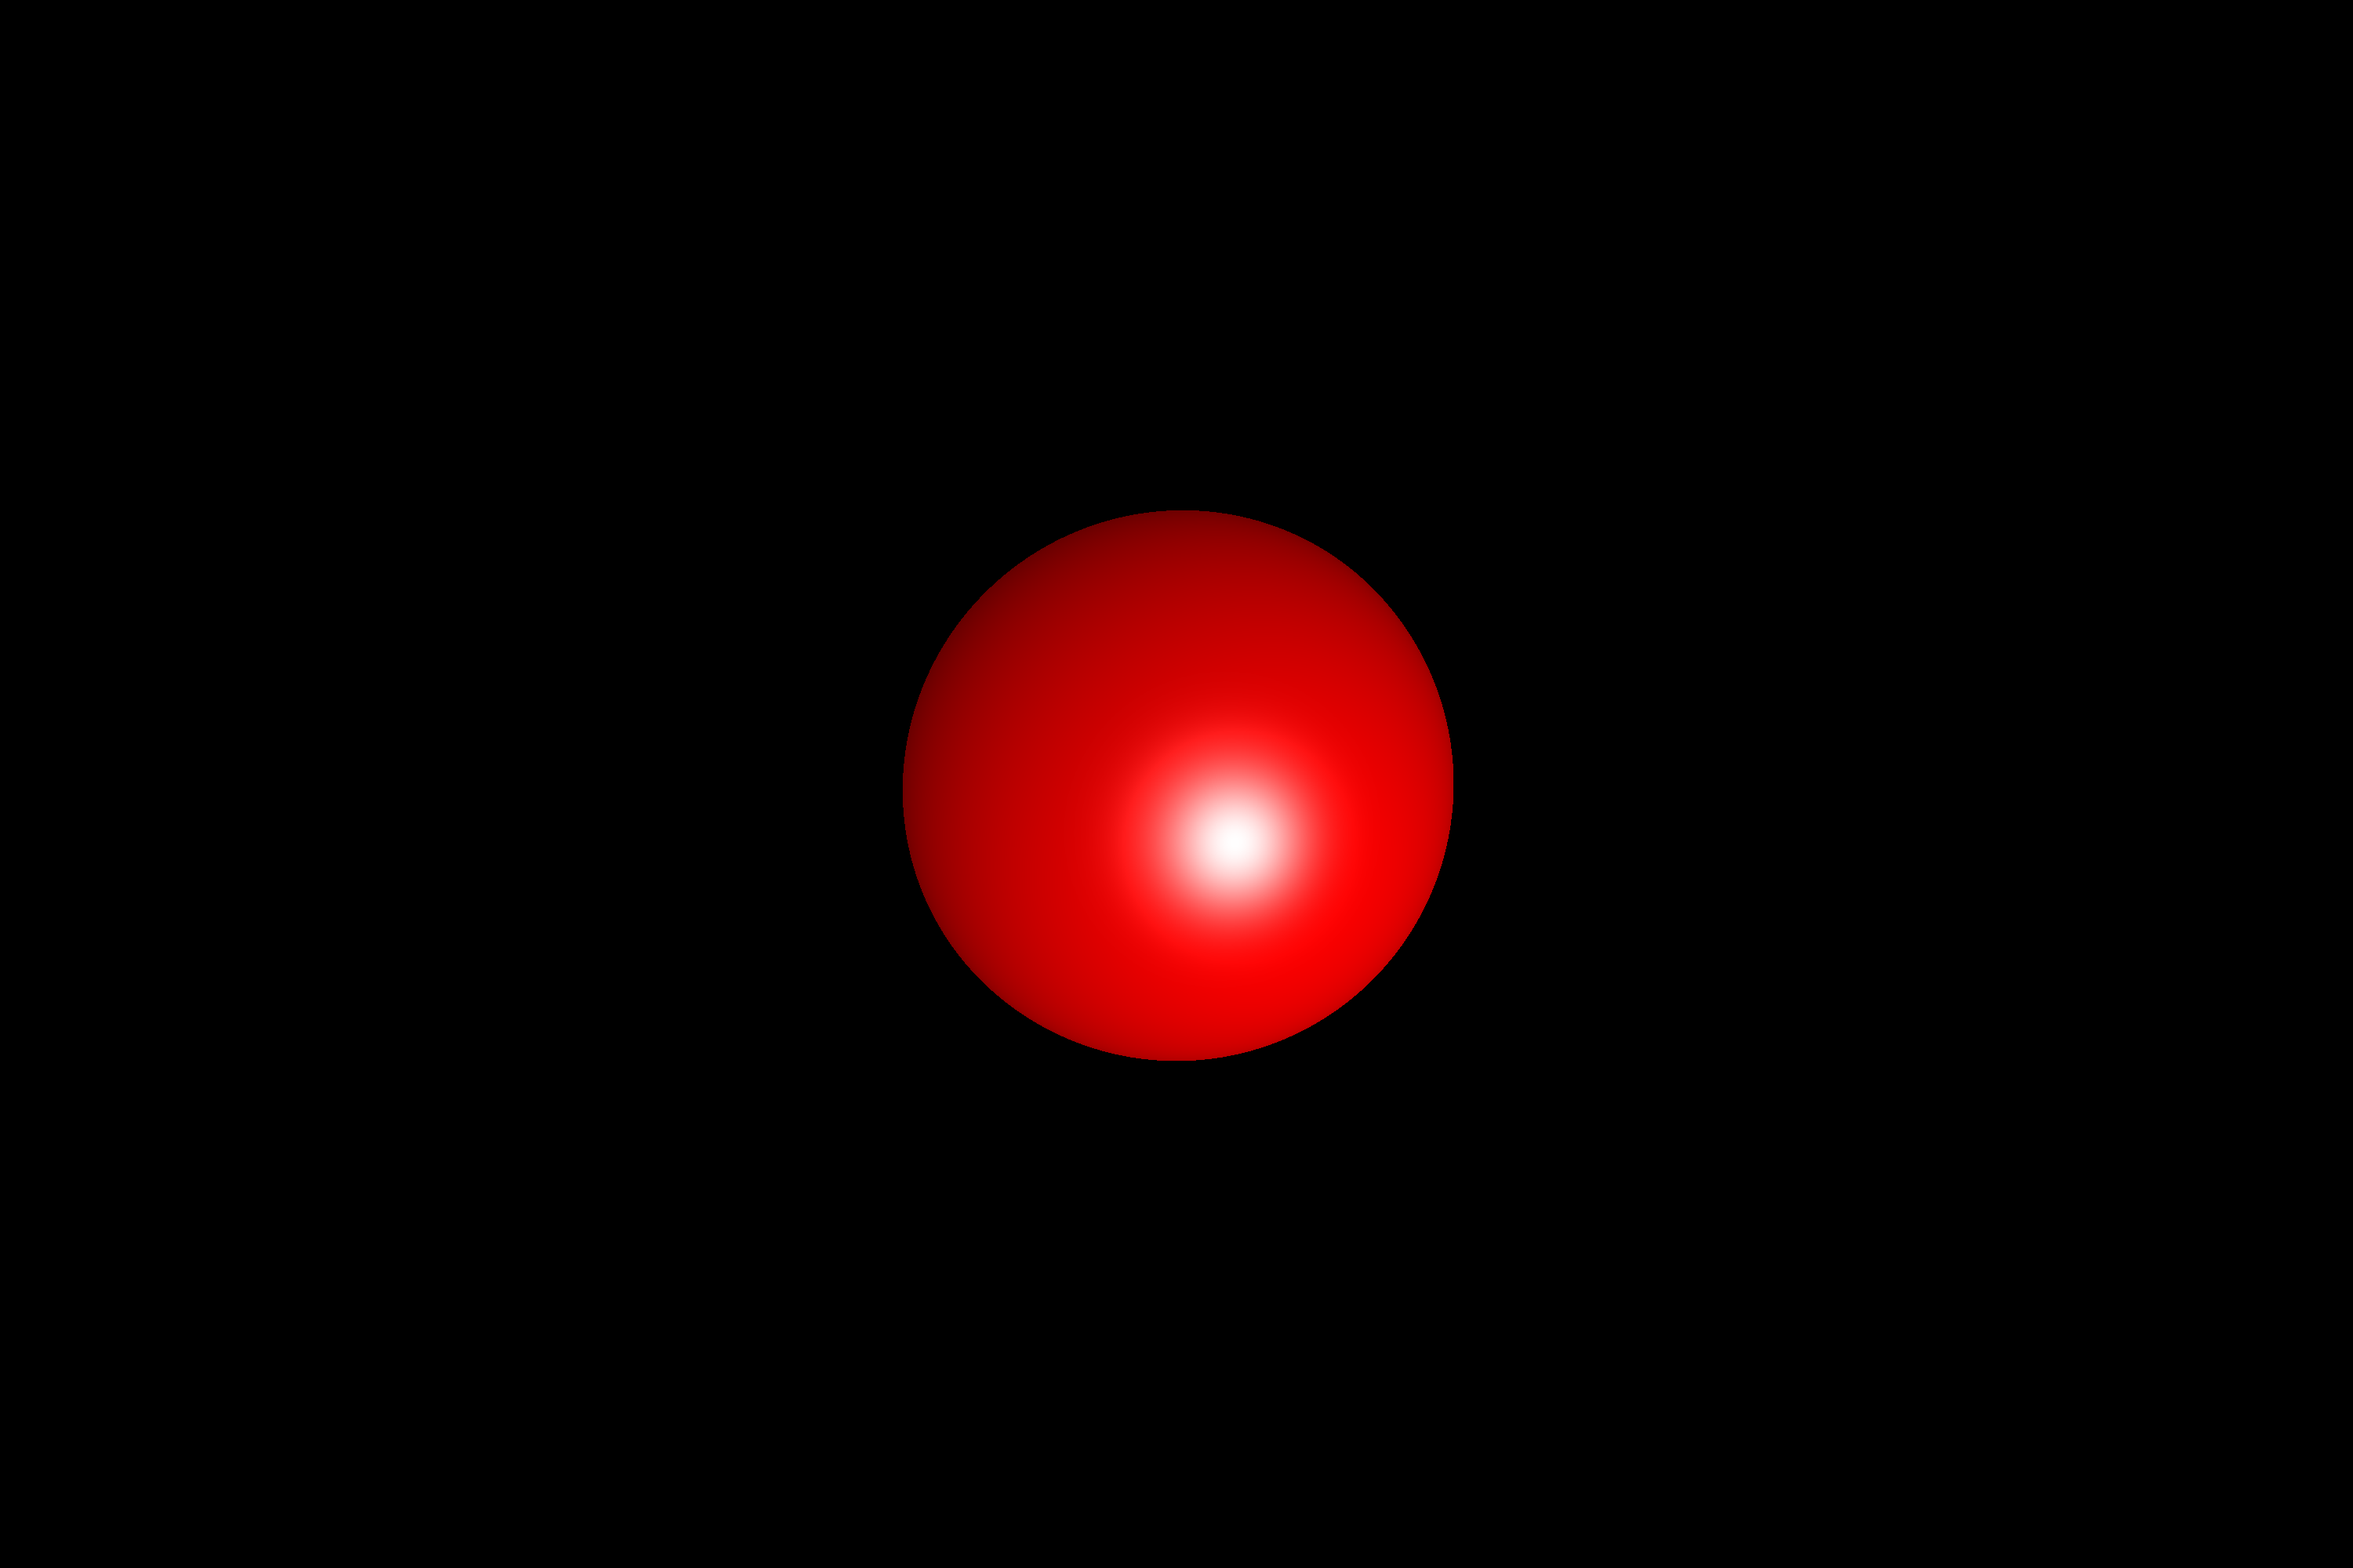
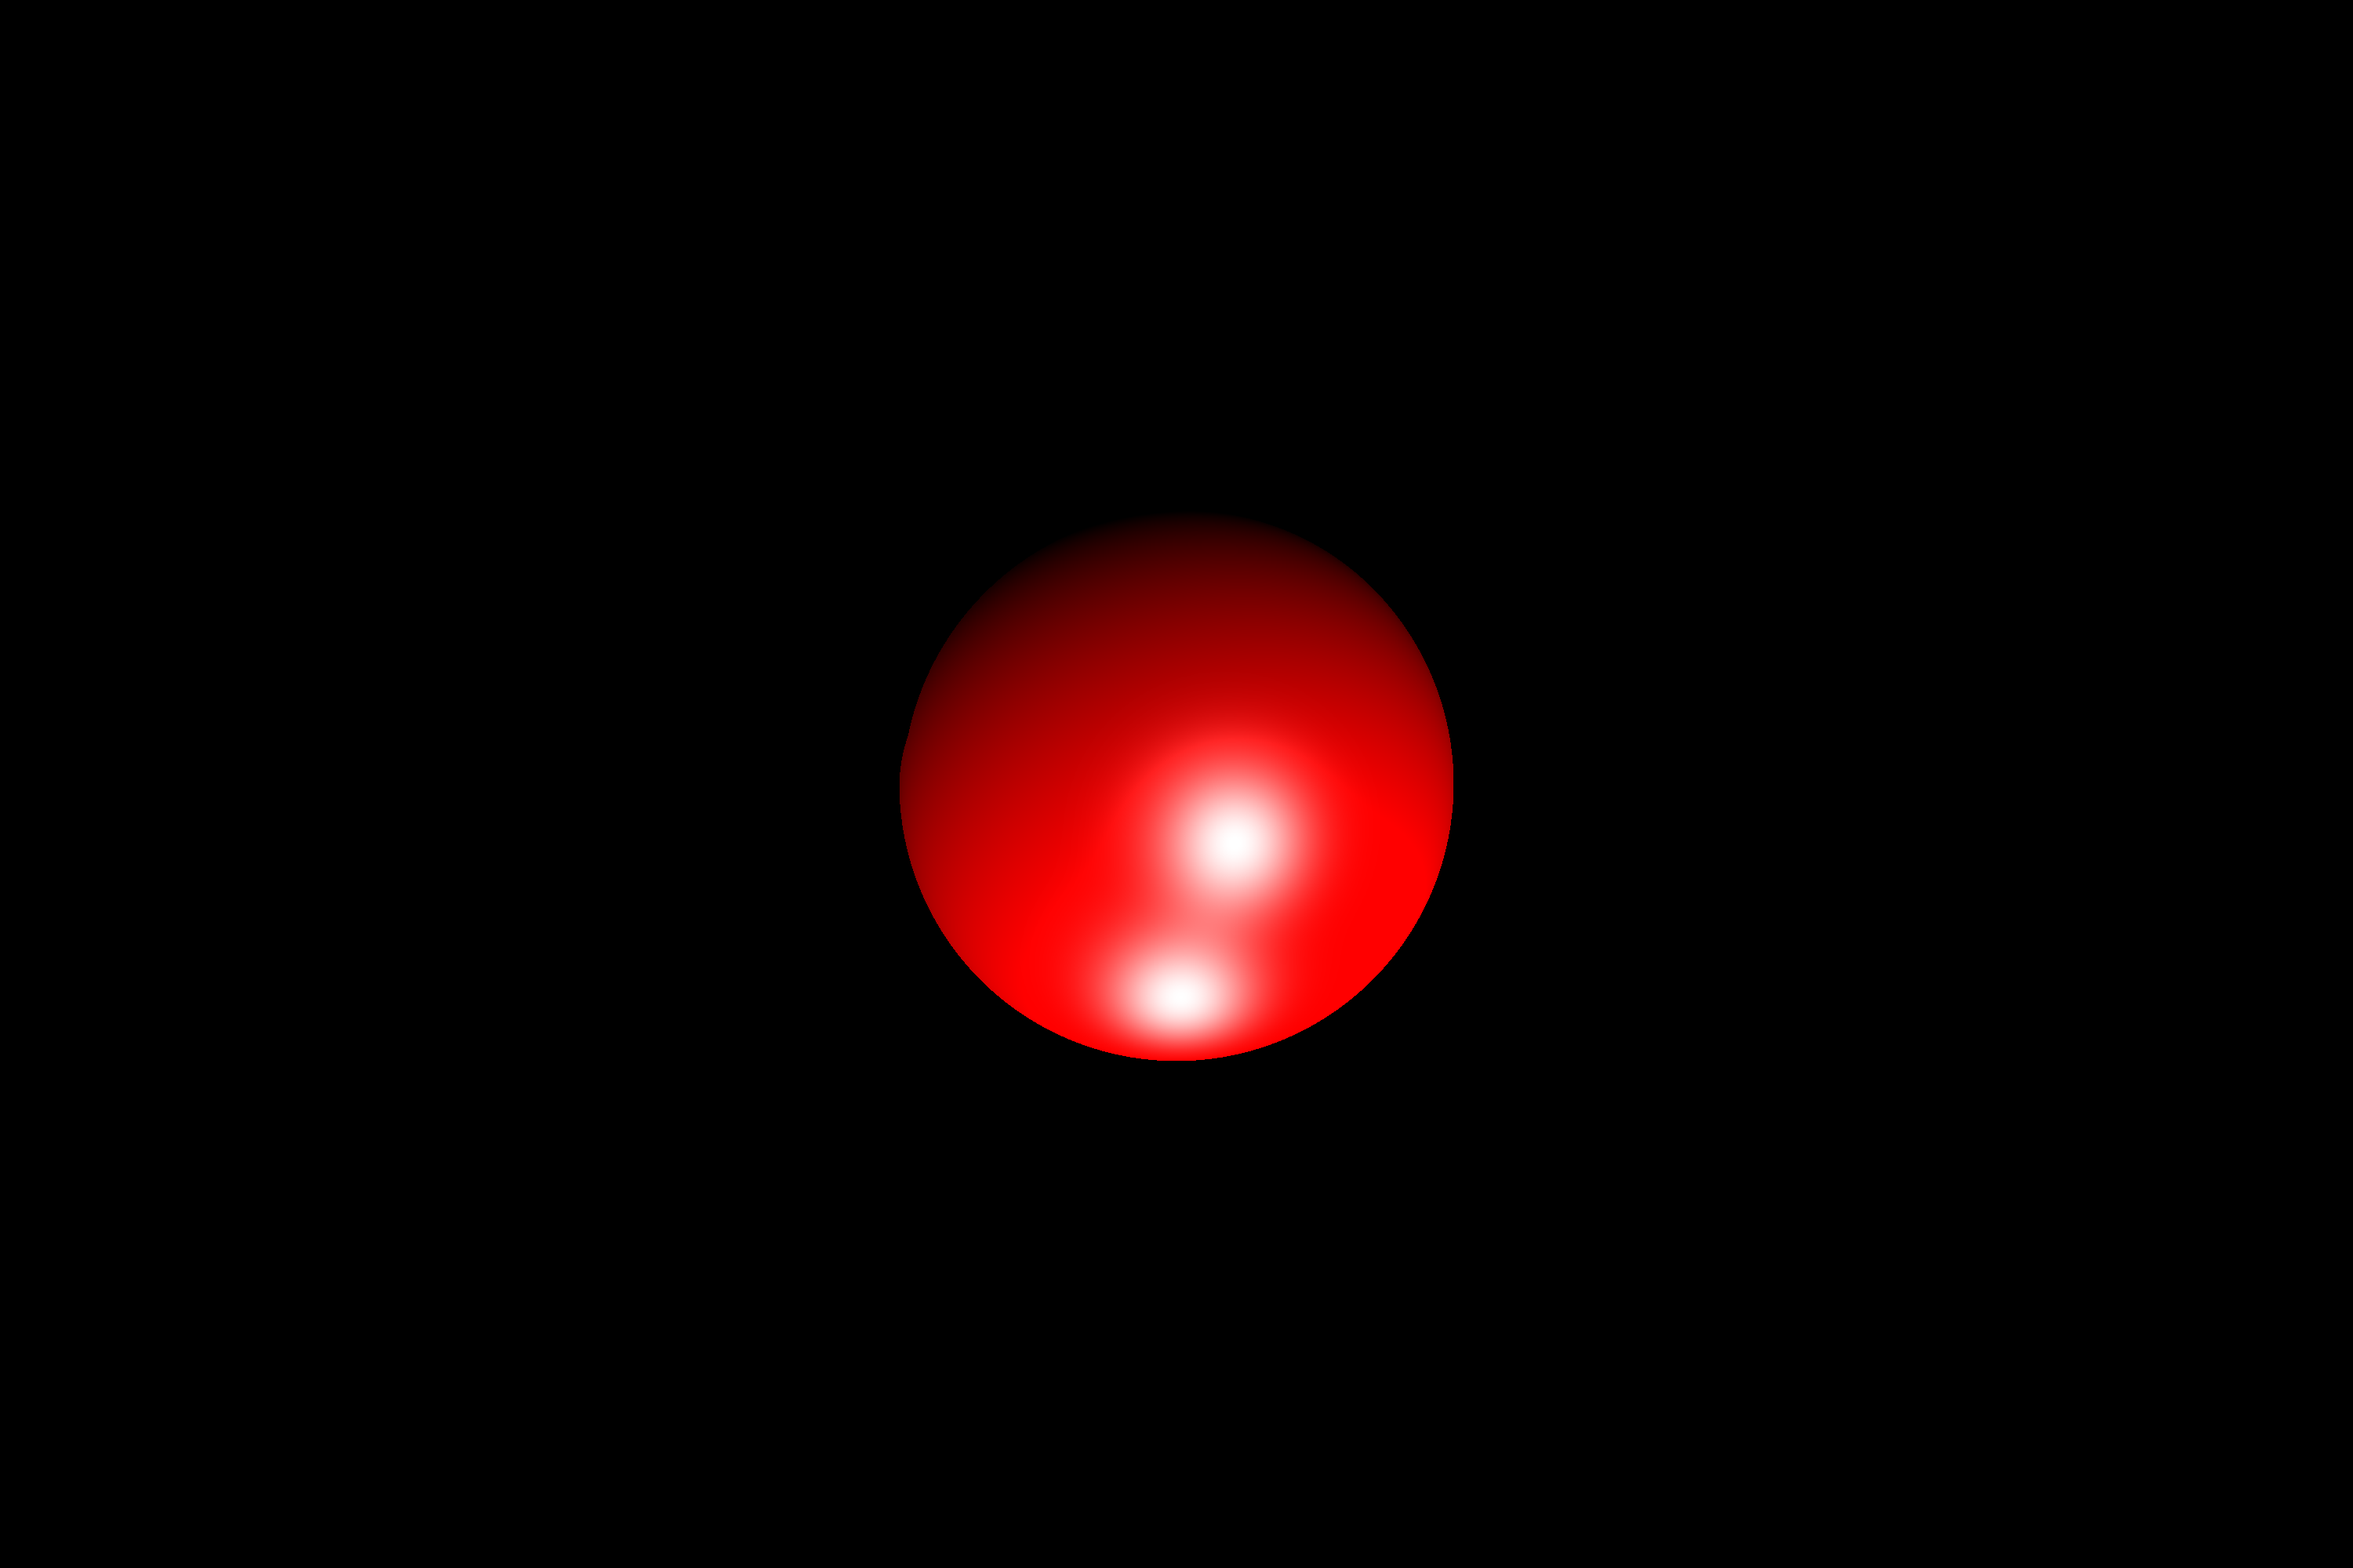
Before shaping rays

Changed region(s): [[0.372, 0.31, 0.62, 0.465], [0.372, 0.527, 0.62, 0.682]]

diff --git a/main.py b/main.py
@@ -1,38 +1,43 @@
-import numpy as np
-import matplotlib.pyplot as plt
+from imports import *
 from rays import *
 from material import *
 from sphere import *
+from viewer import *
+from time import time
+from scene import *
 
-width = 3000
-height = 2000
+last_update_time = time()
+scene = Scene()
+def update(events):
+    global last_update_time
+    global scene
+    print("FPS: ", 1/(time() - last_update_time))
+    last_update_time = time()
+    print(events)
+    width = 600
+    height = 600
 
-camera = np.array([0, 0, 1])
-camera_direction = np.array([0, 0, -1])
+    ratio = float(width) / height
+    camera = np.array([0, 0, 1])
 
-ratio = float(width) / height
+    x = np.linspace(-ratio, ratio, width)
+    y = np.linspace(-1, 1, height)
+    z = np.zeros((1))
+    screen = np.dstack(np.meshgrid(x,y,z)) # height, width, 3
+    screen = np.swapaxes(screen, 0, 1) # width, height, 3
+    screen = screen.reshape(width*height, 3) # width * height, 3
 
-x = np.linspace(-ratio, ratio, width)
-y = np.linspace(-1, 1, height)
-z = np.zeros((1))
-screen = np.dstack(np.meshgrid(x,y,z, copy=False)) # height, width, 3
-screen = np.swapaxes(screen, 0, 1) # width, height, 3
-screen = screen.reshape(width*height, 3) # width * height, 3
+    camera_pos = np.tile(camera, (width * height, 1)) # width * height, 3
 
-camera_pos = np.tile(camera, (width * height, 1)) # width * height, 3
+    rays = Rays.from_point_pairs(froms=camera_pos, tos=screen) # width*height, 3, 3
+    # rays = Rays(np.array([[0, 0, 1]]), np.array([[0, 0, -1]])) # width*height, 3, 3
 
-rays = Rays.from_point_pairs(froms=camera_pos, tos=screen) # width*height, 3, 3
-# rays = Rays(np.array([[0, 0, 1]]), np.array([[0, 0, -1]])) # width*height, 3, 3
+    result = scene.render_rays(rays)
+    mask = result[:, :, 2] > 0
+    image = np.zeros((width, height, 3))
+    image[mask] = result[mask]
 
-material = BasicMaterial(ambient_color=np.array([0.5, 0, 0]), diffuse_color=np.array([0.5, 0, 0]), specular_color=np.array([1,1,1]), shininess=25)
-sphere = Sphere(center=np.array([0, 0, -2]), radius=1, material=material)
+    return image*255
 
-result = sphere.render(rays, np.array([1,1,1])) # width*height, 3
-result = result.reshape(width, height, 3) # width, height, 3
-
-mask = result[:, :, 2] > 0
-image = np.zeros((width, height, 3))
-image[mask] = result[mask]
-
-image = np.swapaxes(image, 0, 1)
-plt.imsave('image.png', image)
+viewer = Viewer(update, (600, 600))
+viewer.start()

diff --git a/sphere.py b/sphere.py
@@ -1,13 +1,14 @@
-import numpy as np
-from utils import *
-from blinn_phong import *
+from imports import *
 
-class Sphere:
+from utils import *
+from primitive import *
+
+class Sphere(Primitive):
     def __init__(self, center, radius, material):
+        super().__init__(material)
         self.center = center
         self.radius = radius
         self.radius_sq = radius ** 2
-        self.material = material
 
     def normal_at(self, points):
         """
@@ -37,19 +38,4 @@ class Sphere:
         result_t[roots_minus_t >= 0] = roots_minus_t[roots_minus_t >= 0]
 
         result = rays.evaluate_at_t(result_t)
-        return result
-
-    def render(self, rays, light):
-        intersections = self.intersect(rays)
-        mask = ~np.isnan(intersections[:, 0])
-
-        to_observer = rays.origins[mask] - intersections[mask]
-        to_observer /= np.linalg.norm(to_observer, axis=1, keepdims=True)
-
-        to_light = light - intersections[mask]
-        to_light /= np.linalg.norm(to_light, axis=1, keepdims=True)
-
-        result = np.full_like(intersections, np.nan)
-        result[mask] = blinn_phong(self.material, intersections[mask], self.normal_at(intersections[mask]), to_light, to_observer)
-
         return result

diff --git a/primitive.py b/primitive.py
@@ -1,0 +1,31 @@
+from imports import *
+from blinn_phong import *
+
+class Primitive:
+
+    def __init__(self, material):
+        self.material = material
+
+    def normal_at(self, points):
+        raise NotImplementedError()
+
+    def intersect(self, rays):
+        raise NotImplementedError()
+
+    def render(self, rays, lights):
+        intersections = self.intersect(rays)
+        mask = ~np.isnan(intersections[:, 0])
+
+        to_observer = rays.origins[mask] - intersections[mask]
+        to_observer /= np.linalg.norm(to_observer, axis=1, keepdims=True)
+
+        result = np.full_like(intersections, np.nan)
+        result[mask] = self.material.ambient_colors_at(intersections[mask])
+
+        for light in lights:
+            to_light = light - intersections[mask]
+            to_light /= np.linalg.norm(to_light, axis=1, keepdims=True)
+
+            result[mask] += blinn_phong(self.material, intersections[mask], self.normal_at(intersections[mask]), to_light, to_observer)
+
+        return np.clip(result, 0, 1)

diff --git a/viewer.py b/viewer.py
@@ -1,0 +1,32 @@
+# viewer.py
+# (c) 2020 Karthik Karanth, MIT License
+# https://karthikkaranth.me/blog/drawing-pixels-with-python/
+# with modifications by me
+import pygame
+
+
+class Viewer:
+    def __init__(self, update_func, display_size):
+        self.update_func = update_func
+        pygame.init()
+        self.display = pygame.display.set_mode(display_size)
+
+    def set_title(self, title):
+        pygame.display.set_caption(title)
+
+    def start(self):
+        running = True
+        while running:
+            events = []
+            for event in pygame.event.get():
+                if event.type == pygame.QUIT:
+                    running = False
+                events.append(event)
+
+            Z = self.update_func(events)
+            surf = pygame.surfarray.make_surface(Z)
+            self.display.blit(surf, (0, 0))
+
+            pygame.display.update()
+
+        pygame.quit()

diff --git a/scene.py b/scene.py
@@ -1,0 +1,18 @@
+from material import BasicMaterial
+from sphere import Sphere
+from imports import *
+
+
+class Scene:
+
+    def __init__(self):
+        material = BasicMaterial(ambient_color=np.array([0.5, 0, 0]), diffuse_color=np.array([0.5, 0, 0]),
+                                     specular_color=np.array([1, 1, 1]), shininess=25)
+        self.sphere = Sphere(center=np.array([0, 0, -2]), radius=1, material=material)
+
+    def render_rays(self, rays):
+        width = 600
+        height = 600
+        result = self.sphere.render(rays, [np.array([1, 1, 1]), np.array([2, 100, 1])])  # width*height, 3
+        result = result.reshape(width, height, 3)  # width, height, 3
+        return result

diff --git a/blinn_phong.py b/blinn_phong.py
@@ -1,5 +1,4 @@
-import numpy as np
-
+from imports import *
 
 def blinn_phong(material, points, normals, towards_light, towards_observer):
     """
@@ -16,4 +15,4 @@ def blinn_phong(material, points, normals, towards_light, towards_observer):
     diffuse = material.diffuse_colors_at(points) * np.sum(normals * towards_light, axis=1, keepdims=True)
     specular = material.specular_colors_at(points) * np.sum(normals * halfway, axis=1, keepdims=True) ** material.shininess
     specular = np.clip(specular, 0, 1)
-    return np.clip(material.ambient_colors_at(points) + diffuse + specular, 0, 1)
+    return diffuse + specular

diff --git a/utils.py b/utils.py
@@ -1,4 +1,5 @@
-import numpy as np
+from imports import *
+
 
 
 def solve_quadratic(a, b, c):

diff --git a/rays.py b/rays.py
@@ -1,4 +1,5 @@
-import numpy as np
+from imports import *
+
 
 
 class Rays:

diff --git a/imports.py b/imports.py
@@ -1,0 +1,2 @@
+import numpy as np
+import matplotlib.pyplot as plt
